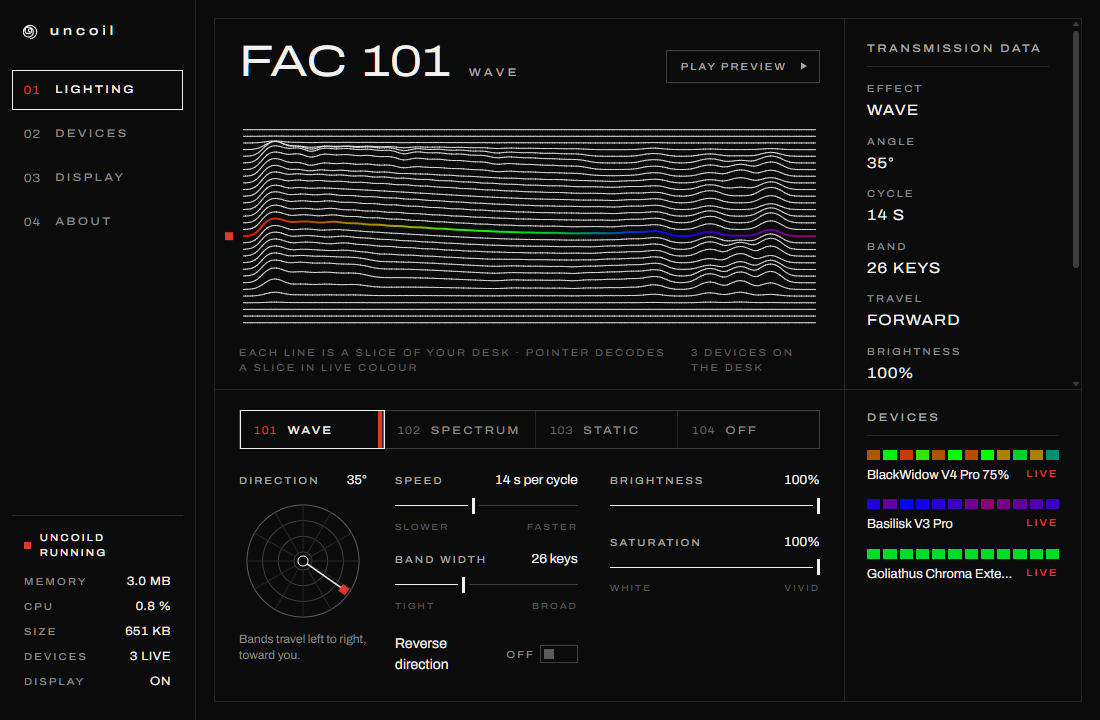
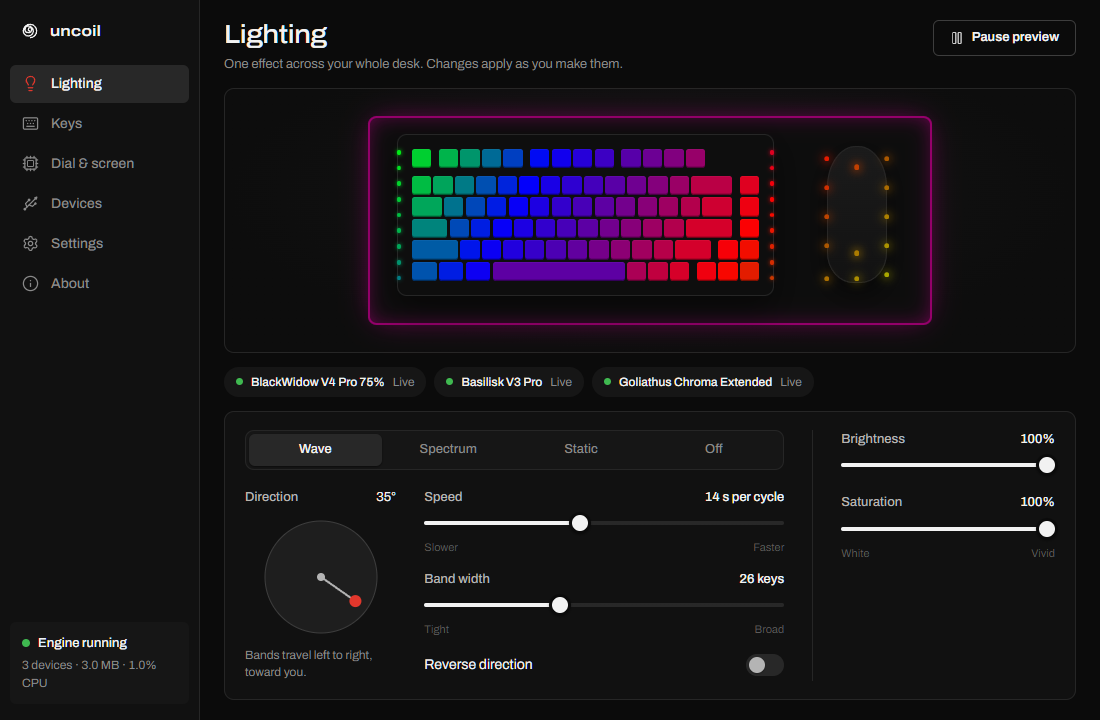
site: drop the FAC catalog numbers
Removes the catalog codes from headings, docs titles, the footer and 404,
the numbered section rail and the decorative code strip; install steps
read "Step 1-3". Swaps in a capture of the redesigned app.

diff --git a/site/src/content.config.ts b/site/src/content.config.ts
@@ -1,13 +1,11 @@
 import { defineCollection } from 'astro:content';
-import { z } from 'astro/zod';
 import { docsLoader, i18nLoader } from '@astrojs/starlight/loaders';
 import { docsSchema, i18nSchema } from '@astrojs/starlight/schema';
 
 export const collections = {
 	docs: defineCollection({
 		loader: docsLoader(),
-		// `fac`: the page's catalog number, set inline before the title (never as a kicker above it).
-		schema: docsSchema({ extend: z.object({ fac: z.string().optional() }) }),
+		schema: docsSchema(),
 	}),
 	// UI string overrides (src/content/i18n/en.json).
 	i18n: defineCollection({ loader: i18nLoader(), schema: i18nSchema() }),

diff --git a/site/src/styles/site.css b/site/src/styles/site.css
@@ -51,7 +51,7 @@
 	}
 	/* Pages with a section rail reserve room for it. */
 	body:has(nav.rail) {
-		--rail: 72px;
+		--rail: 0px;
 	}
 }
 

diff --git a/site/src/content/docs/docs/troubleshooting.md b/site/src/content/docs/docs/troubleshooting.md
@@ -1,7 +1,6 @@
 ---
 title: Troubleshooting
 description: Frozen keyboard lighting, a dial that scrolls instead of changing volume, conflicts with iCUE or OpenRGB, and lighting around display sleep.
-fac: FAC 206
 ---
 
 Start with the log. `%LOCALAPPDATA%\uncoil\uncoild.log` records every device opened or lost, display state

diff --git a/site/src/content/docs/docs/getting-started.md b/site/src/content/docs/docs/getting-started.md
@@ -1,7 +1,6 @@
 ---
 title: Getting started
 description: Install uncoild as a logon task, retire Synapse without leaving devices in driver mode, check it is running, and remove it again.
-fac: FAC 201
 ---
 
 uncoil has no installer yet. Installing it means putting one executable somewhere and asking Windows to

diff --git a/site/src/content/docs/docs/configuration.md b/site/src/content/docs/docs/configuration.md
@@ -1,7 +1,6 @@
 ---
 title: Configuration
 description: Every key in %APPDATA%\uncoil\config.json, its default, and what the daemon does with it.
-fac: FAC 202
 ---
 
 uncoil reads one JSON file: `%APPDATA%\uncoil\config.json`. The desktop app writes it; you can edit it by

diff --git a/site/src/content/docs/docs/architecture.md b/site/src/content/docs/docs/architecture.md
@@ -1,7 +1,6 @@
 ---
 title: Architecture
 description: The daemon, the desktop app, the files between them, and the pieces still in progress.
-fac: FAC 205
 ---
 
 uncoil is split so that the part that runs all day is as small as it can be, and the part with a UI only

diff --git a/site/src/content/docs/docs/contributing.md b/site/src/content/docs/docs/contributing.md
@@ -1,7 +1,6 @@
 ---
 title: Contributing
 description: Where help is most useful (device files, captures, protocol facts) and where the contribution guide lives.
-fac: FAC 207
 ---
 
 The full guide, including how to build, test and format, lives in

diff --git a/site/src/content/docs/docs/index.md b/site/src/content/docs/docs/index.md
@@ -1,7 +1,6 @@
 ---
 title: uncoil documentation
 description: How to install, configure and extend uncoil, the small open-source lighting daemon for Razer peripherals on Windows.
-fac: FAC 200
 tableOfContents: false
 ---
 

diff --git a/site/src/content/docs/docs/protocol.md b/site/src/content/docs/docs/protocol.md
@@ -1,7 +1,6 @@
 ---
 title: Protocol
 description: How uncoil talks to Razer devices, how that was learned from Synapse's own logs, and the hardware quirks that cost the most time.
-fac: FAC 204
 ---
 
 :::note[Source]

diff --git a/site/src/content/docs/docs/faq.md b/site/src/content/docs/docs/faq.md
@@ -1,7 +1,6 @@
 ---
 title: FAQ
 description: Who makes uncoil, the licence, what still needs Synapse, and what uncoil deliberately leaves out.
-fac: FAC 208
 ---
 
 ## Is uncoil made by Razer?
